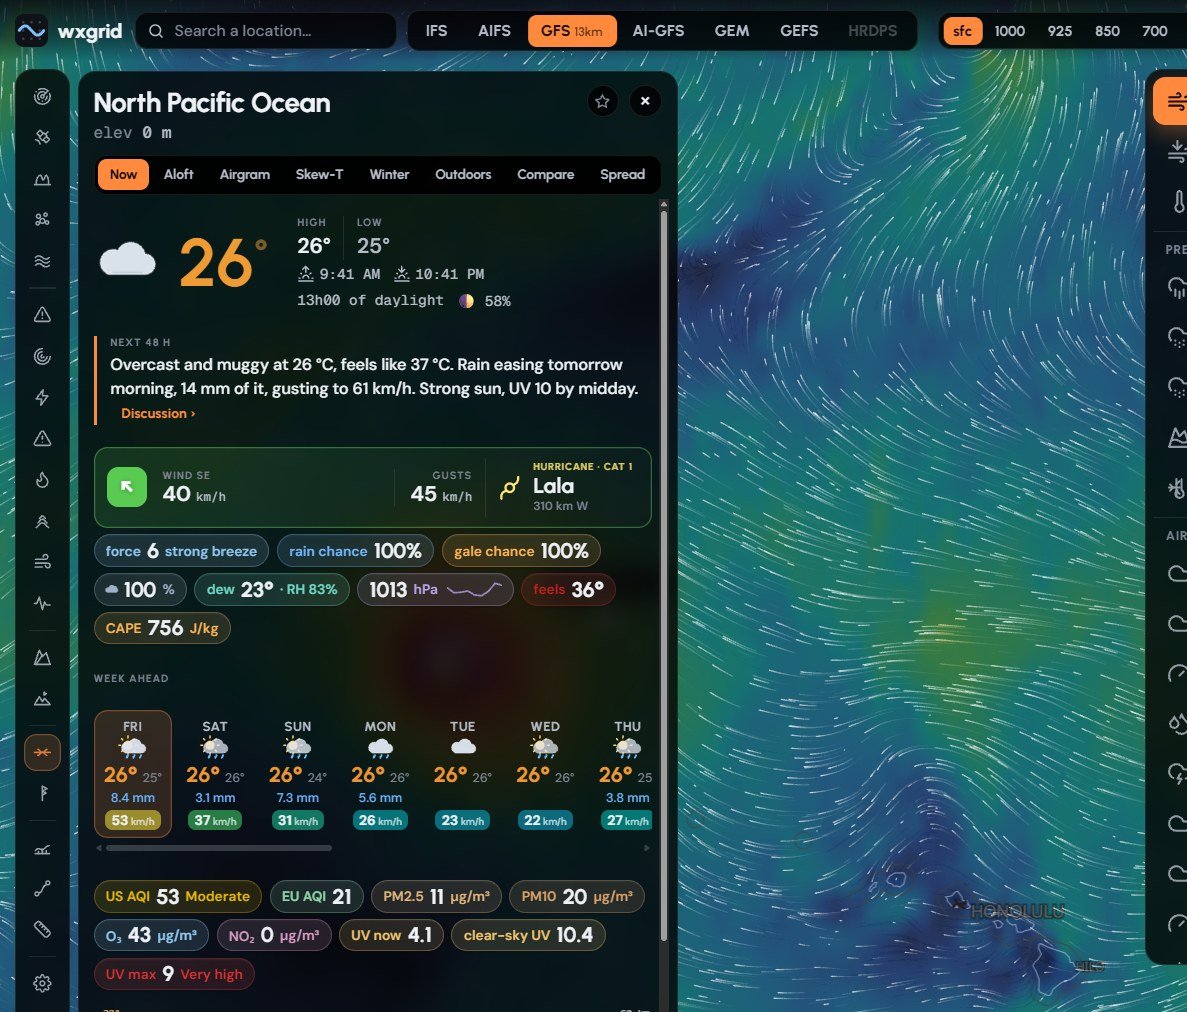
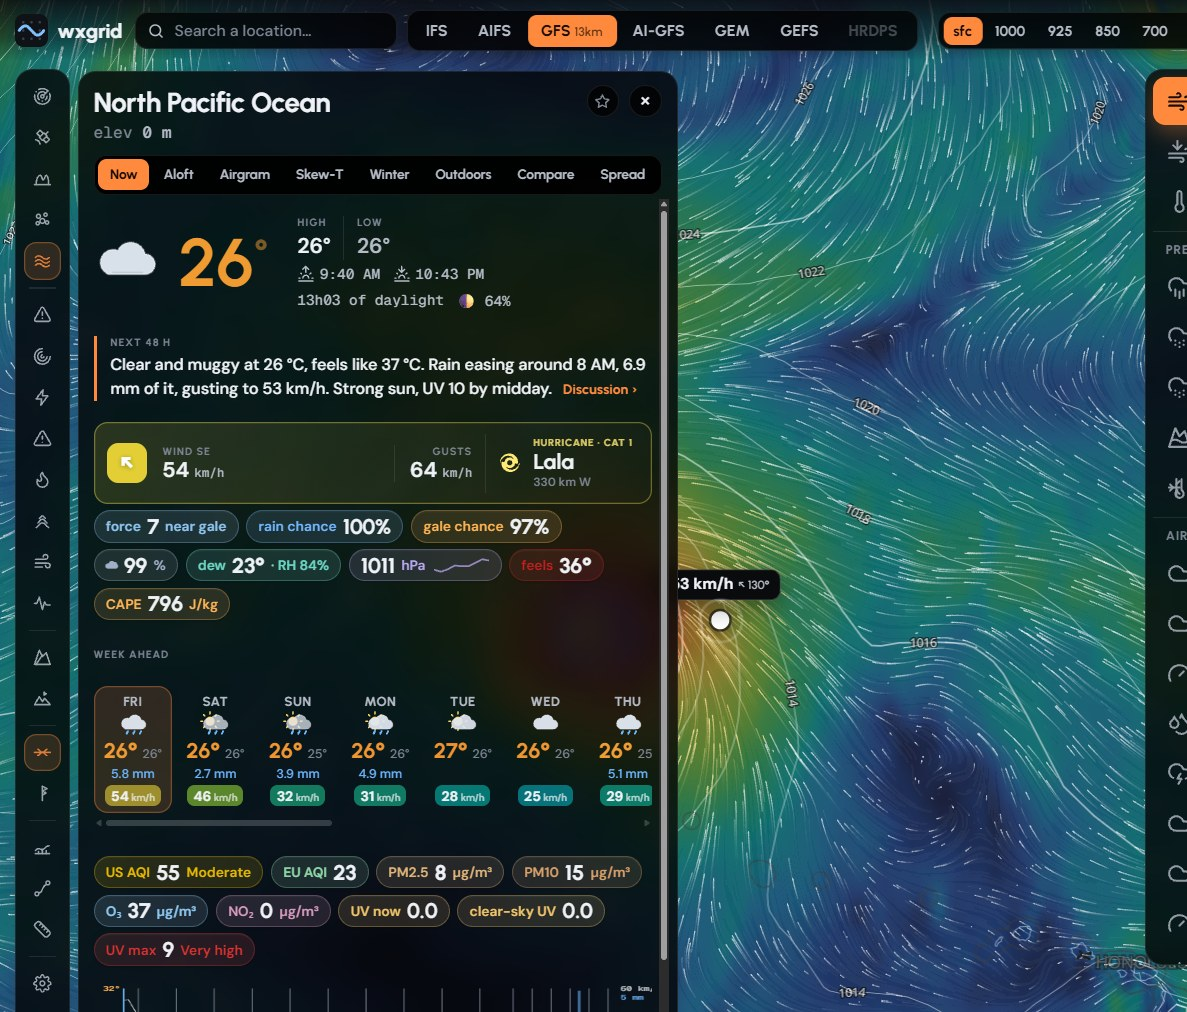
fix: the cyclone glyph proper, town values retired, the tape keeps its rows

diff --git a/front/panes.js b/front/panes.js
@@ -719,7 +719,9 @@
   let stormFetch = 0;
   // The meteorological tropical-cyclone symbol, not an emoji: a core with
   // two trailing arms, drawn in whatever colour the category earned.
-  const CYCLONE_SVG = `<svg viewBox="0 0 24 24" fill="none" stroke="currentColor" stroke-width="2" stroke-linecap="round"><circle cx="12" cy="12" r="3.7"/><path d="M15.4 9.6c3.3-1.6 4.6-4.4 3.9-7.1"/><path d="M8.6 14.4c-3.3 1.6-4.6 4.4-3.9 7.1"/></svg>`;
+  // The NHC symbol proper: a solid ring and two tapered spiral arms, generated
+  // as filled polygons (a stroked sketch read as a ring with stubs).
+  const CYCLONE_SVG = `<svg viewBox="0 0 24 24" fill="currentColor" stroke="none"><path fill-rule="evenodd" d="M12 7.3a4.7 4.7 0 1 0 0 9.4a4.7 4.7 0 1 0 0-9.4zM12 9.7a2.3 2.3 0 1 1 0 4.6a2.3 2.3 0 1 1 0-4.6z"/><path d="M18.93 12.97 L19.14 12.11 L19.21 11.20 L19.15 10.29 L18.96 9.38 L18.66 8.50 L18.23 7.65 L17.69 6.86 L17.06 6.14 L16.32 5.50 L15.51 4.95 L14.62 4.52 L13.68 4.19 L12.70 3.99 L11.70 3.91 L10.68 3.96 L9.68 4.14 L8.70 4.45 L7.76 4.88 L6.88 5.43 L6.07 6.09 L5.35 6.85 L4.72 7.69 L4.21 8.62 L3.81 9.60 L3.54 10.64 L3.41 11.70 L3.80 11.71 L4.09 10.73 L4.49 9.80 L4.99 8.96 L5.59 8.21 L6.26 7.55 L6.99 7.00 L7.76 6.56 L8.57 6.24 L9.39 6.02 L10.20 5.92 L11.00 5.93 L11.78 6.03 L12.50 6.23 L13.18 6.52 L13.79 6.88 L14.33 7.31 L14.80 7.79 L15.18 8.31 L15.48 8.86 L15.70 9.42 L15.83 9.98 L15.88 10.54 L15.86 11.08 L15.76 11.58 L15.60 12.05 L15.37 12.47 Z"/><path d="M5.07 11.03 L4.86 11.89 L4.79 12.80 L4.85 13.71 L5.04 14.62 L5.34 15.50 L5.77 16.35 L6.31 17.14 L6.94 17.86 L7.68 18.50 L8.49 19.05 L9.38 19.48 L10.32 19.81 L11.30 20.01 L12.30 20.09 L13.32 20.04 L14.32 19.86 L15.30 19.55 L16.24 19.12 L17.12 18.57 L17.93 17.91 L18.65 17.15 L19.28 16.31 L19.79 15.38 L20.19 14.40 L20.46 13.36 L20.59 12.30 L20.20 12.29 L19.91 13.27 L19.51 14.20 L19.01 15.04 L18.41 15.79 L17.74 16.45 L17.01 17.00 L16.24 17.44 L15.43 17.76 L14.61 17.98 L13.80 18.08 L13.00 18.07 L12.22 17.97 L11.50 17.77 L10.82 17.48 L10.21 17.12 L9.67 16.69 L9.20 16.21 L8.82 15.69 L8.52 15.14 L8.30 14.58 L8.17 14.02 L8.12 13.46 L8.14 12.92 L8.24 12.42 L8.40 11.95 L8.63 11.53 Z"/></svg>`;
   W().CYCLONE_SVG = CYCLONE_SVG;
   function fetchNearStorm(pt) {
     const my = ++stormFetch;

diff --git a/front/app.js b/front/app.js
@@ -977,7 +977,13 @@
     const setTapeHeight = (height, persist = false) => {
       const bounds = tapeBounds();
       const maxH = innerWidth <= 820 ? Math.min(bounds.max, tapeContentMax()) : bounds.max;
-      tapeHeight = clamp(Math.round(height), bounds.min, Math.max(bounds.min, maxH));
+      // Never shorter than the rows either: with vertical scroll locked, a
+      // tape dragged below its content simply hid the gust row (Jeff
+      // 2026-08-21, "gust pills disappeared"). Smaller than content is what
+      // the mini state is for.
+      const content = tapeContentMax();
+      const minH = isFinite(content) ? Math.min(content, Math.max(bounds.min, maxH)) : bounds.min;
+      tapeHeight = clamp(Math.round(height), Math.max(bounds.min, minH), Math.max(bounds.min, maxH, minH));
       tb.style.height = `${tapeHeight}px`; tb.classList.add("user-sized");
       tapeGrip.setAttribute("aria-valuemin", bounds.min); tapeGrip.setAttribute("aria-valuemax", bounds.max); tapeGrip.setAttribute("aria-valuenow", tapeHeight);
       if (persist) localStorage.setItem("wxgrid.tapeHeight", tapeHeight);

diff --git a/front/probe.js b/front/probe.js
@@ -172,8 +172,10 @@
       // often collision-hides the town name while its point still answers a
       // query, leaving the value orphaned — and a wind NUMBER without its
       // direction is half a fact anyway. The particles already show the wind.
-      const CITY_LAYERS = ["temp", "feels", "wbt", "d2m", "sst", "dt24", "msl", "frz", "cbase", "vis", "prob_rain", "prob_gust"];
-      if (m.getZoom() < 4.2 || !CITY_LAYERS.includes(WX.state.layer)) { src.setData({ type: "FeatureCollection", features: [] }); return; }
+      // Town values are retired (Jeff 2026-08-21: "temperatures all over the
+      // map"). The source stays so the layer plumbing is inert, not broken.
+      const CITY_LAYERS = [];
+      if (true || m.getZoom() < 4.2 || !CITY_LAYERS.includes(WX.state.layer)) { src.setData({ type: "FeatureCollection", features: [] }); return; }
       const ids = cityLayerIds();
       const seen = new Set(); const feats = [];
       for (const f of (ids.length ? m.queryRenderedFeatures({ layers: ids }) : [])) {
